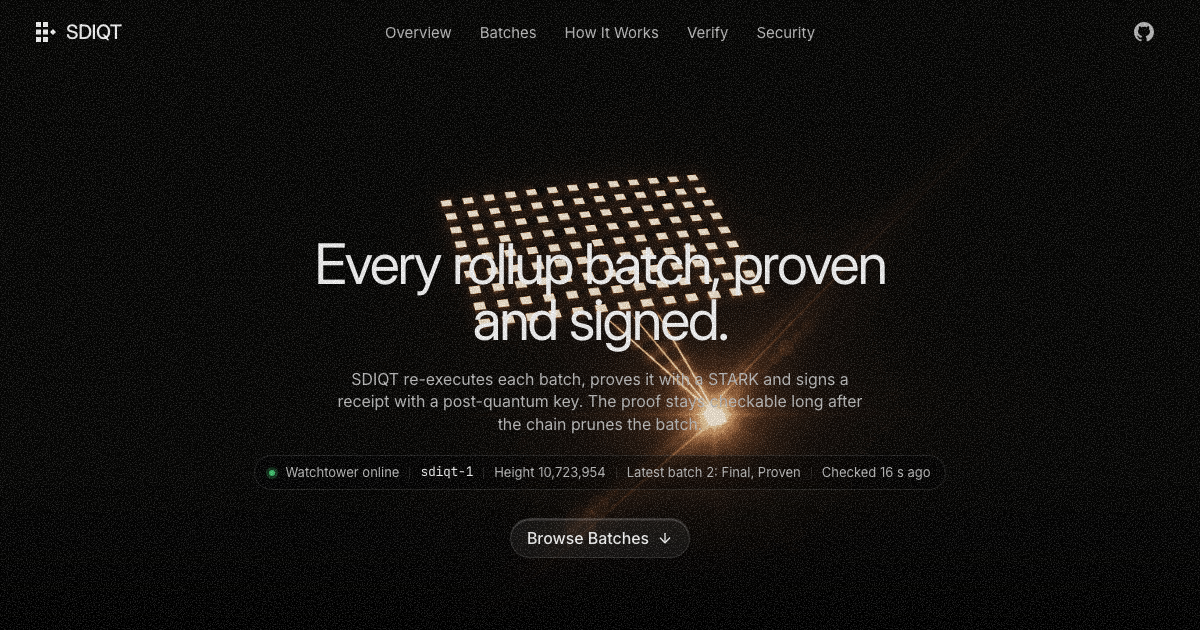
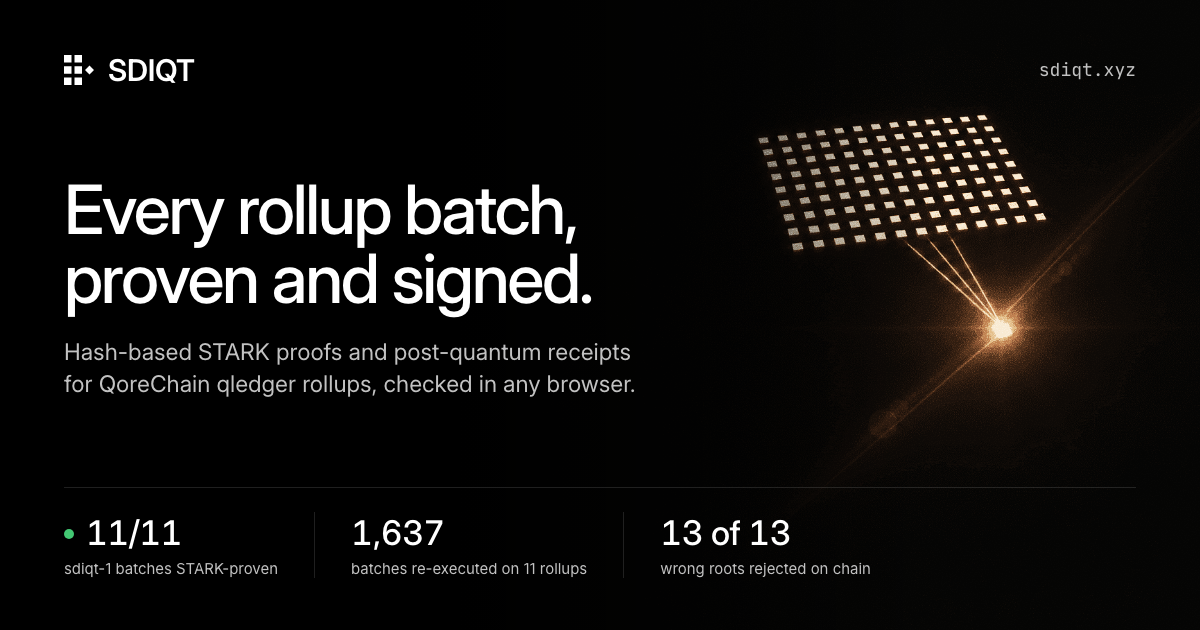
docs: show the sealed exit as live, add the cover and refresh README numbers (#62)
Two changes.

- `apps/explorer/scripts/cards.mjs` (`pnpm --dir apps/explorer cards`)
renders `public/og.png` (1200 x 630) and `docs/cover.png` (1920 x 1080)
from `docs/counts.json` and `/api/rollups`. It refuses to render when
the rejected count differs from the mismatch count. OG alt text updated.
- README: the ML-KEM exit packet ran on diana (tx C451E059 posted it in
batch 5, tx E9C47252 paid it after finality), so it leaves \"Not shown
yet\" and fills the Withdrawal and ML-KEM rows. Numbers follow PROOF.md
at 10779613 (11/11 proven, 10/10 claims) and /api/rollups at 26 Nov
09:05 UTC (11 rollups, 1,637 batches, 13 mismatches, all rejected). The
quick-start `--check` line and its output match the committed PROOF.md
(checked locally, changed 0). Batch 9 latency (663 min) is explained.

After merge: `deploy/deploy-explorer.sh` ships the new og.png.

diff --git a/apps/explorer/index.html b/apps/explorer/index.html
@@ -22,7 +22,7 @@
     <meta property="og:image" content="https://sdiqt.xyz/og.png" />
     <meta property="og:image:width" content="1200" />
     <meta property="og:image:height" content="630" />
-    <meta property="og:image:alt" content="SDIQT Explorer with live sdiqt-1 batches" />
+    <meta property="og:image:alt" content="SDIQT cover with the line Every rollup batch, proven and signed, and live batch counts from QoreChain diana" />
     <meta name="twitter:card" content="summary_large_image" />
     <meta name="twitter:title" content="SDIQT Explorer" />
     <meta

diff --git a/README.md b/README.md
@@ -1,10 +1,12 @@
 # SDIQT
 
-SDIQT gives every batch of a QoreChain qledger rollup a hash-based STARK proof that anyone can check in a browser. On the diana testnet, all 9 batches of the rollup `sdiqt-1` are proven and final, and a 2 QOR withdrawal was paid from a proven batch. The same watchtower re-executes every other qledger-v1 rollup on diana from its public inbox: 11 rollups and 1,635 batches checked, 13 mismatching submissions found, and QoreChain rejected all 13.
+![SDIQT: every rollup batch, proven and signed](docs/cover.png)
+
+SDIQT gives every batch of a QoreChain qledger rollup a hash-based STARK proof that anyone can check in a browser. On the diana testnet, all 11 batches of the rollup `sdiqt-1` are proven, two withdrawals were paid from proven batches, and one of them reached the chain through a sealed ML-KEM exit packet. The same watchtower re-executes every other qledger-v1 rollup on diana from its public inbox: 11 rollups and 1,637 batches checked, 13 mismatching submissions found, and QoreChain rejected all 13.
 
 **Live:** https://sdiqt.xyz · **Video:** _placeholder, the link is added at submission_ · **Evidence:** [PROOF.md](PROOF.md)
 
-The `sdiqt-1` evidence in this README comes from [PROOF.md](PROOF.md) and [`docs/counts.json`](docs/counts.json), a snapshot at diana height 10750787 (25 Nov 2026 21:36 UTC) that `scripts/proof.mjs` recomputes from chain. Coverage numbers come from [`/api/rollups`](https://sdiqt.xyz/api/rollups) as of 25 Nov 2026 21:29 UTC (diana height 10750487).
+The `sdiqt-1` evidence in this README comes from [PROOF.md](PROOF.md) and [`docs/counts.json`](docs/counts.json), a snapshot at diana height 10779613 (26 Nov 2026 09:01 UTC) that `scripts/proof.mjs` recomputes from chain. Coverage numbers come from [`/api/rollups`](https://sdiqt.xyz/api/rollups) as of 26 Nov 2026 09:05 UTC.
 
 ## The problem
 
@@ -52,11 +54,11 @@ A qledger-v1 rollup with based sequencing posts every entry to a public inbox on
 
 STARK proofs and challenges run on `sdiqt-1`; on the other rollups the watchtower re-executes and reports. The prover itself runs on any qledger-v1 batch: the `rdk-v328-e2e-mwd5v89d` batch in [Quick start](#quick-start) belongs to another team's rollup.
 
-As of 25 Nov 2026 21:29 UTC, from [`/api/rollups`](https://sdiqt.xyz/api/rollups):
+As of 26 Nov 2026 09:05 UTC, from [`/api/rollups`](https://sdiqt.xyz/api/rollups):
 
 | Rollup | Tier | Batches checked | Re-execution match | Mismatching submissions | Rejected by QoreChain |
 |---|---|---|---|---|---|
-| `sdiqt-1` | STARK | 9 | 9 | 0 | 0 |
+| `sdiqt-1` | STARK | 11 | 11 | 0 | 0 |
 | `augury-oracle` | Re-execution | 0 | 0 | 0 | 0 |
 | `ledgerpump` | Re-execution | 5 | 5 | 1 | 1 |
 | `rdk-v328-e2e-mwd5v89d` | Re-execution | 7 | 7 | 2 | 2 |
@@ -67,9 +69,9 @@ As of 25 Nov 2026 21:29 UTC, from [`/api/rollups`](https://sdiqt.xyz/api/rollups
 | `vigil-1` | Re-execution | 36 | 36 | 4 | 4 |
 | `vigil-pay-1` | Re-execution | 23 | 23 | 2 | 2 |
 | `wicketgate-pay` | Re-execution | 0 | 0 | 0 | 0 |
-| **Total, 11 rollups** | | **1,635** | **1,635 (100%)** | **13** | **13** |
+| **Total, 11 rollups** | | **1,637** | **1,637 (100%)** | **13** | **13** |
 
-"Batches checked" counts the current submission at each batch index. Each of the 13 mismatching submissions claimed roots that differ from a re-execution of its inbox range; QoreChain rejected each one through an upheld fraud proof, and a later submission at the same index took its place, so the 1,648 submissions on record are the 1,635 current batches plus those 13. On `sdiqt-1`, all 9 batches are proven by a STARK and final on QoreChain; the median time from batch submit to QSTR post is 2 min 17 s ([PROOF.md](PROOF.md)).
+"Batches checked" counts the current submission at each batch index. Each of the 13 mismatching submissions claimed roots that differ from a re-execution of its inbox range; QoreChain rejected each one through an upheld fraud proof, and a later submission at the same index took its place, so the 1,650 submissions on record are the 1,637 current batches plus those 13. On `sdiqt-1`, all 11 batches are proven by a STARK; the median time from batch submit to QSTR post is 2 min 17 s ([PROOF.md](PROOF.md)).
 
 The explorer lists every rollup at [sdiqt.xyz](https://sdiqt.xyz/#rollups), with one page per rollup at `https://sdiqt.xyz/r/<rollup>`. The API serves each rollup at `/api/r/<rollup>/{health,batches,batches/<i>,receipts/<i>}`; `sdiqt-1` keeps its routes at `/api`.
 
@@ -124,24 +126,25 @@ Every setup transaction, with height and the check that ran on it, is in [PROOF.
 
 ## Evidence
 
-At height 10750787 ([PROOF.md](PROOF.md)):
+At height 10779613 ([PROOF.md](PROOF.md)):
 
 | Count | Value |
 |---|---|
-| Batches submitted / proven / final | 9 / 9 / 9 |
+| Batches submitted / proven / final | 11 / 11 / 10 |
 | Batches rejected by a challenge | 0 |
-| User entries (deposits / transfers / withdrawals) | 10 (2 / 6 / 2) |
-| QSTR commitments posted | 9 |
-| Setup and withdrawal claims checked against chain | 8 of 8 |
+| User entries (deposits / transfers / withdrawals) | 12 (2 / 8 / 2) |
+| QSTR commitments posted | 11 |
+| Setup, withdrawal and exit claims checked against chain | 10 of 10 |
 | Median time from batch submit to QSTR post | 2 min 17 s |
-| Longest time from batch submit to QSTR post | 18 min 49 s |
+| Longest time from batch submit to QSTR post | 663 min 21 s |
 
-Batches 0 to 2 waited in the prove queue for a fix; batches 3 to 8 went from submit to QSTR in 2 min 6 s to 3 min 45 s. The withdrawal: the demo user posted a signed 2 QOR withdrawal in batch 3 (tx `18EE89B6…`), and after batch 3 was final `MsgExecuteWithdrawal` paid it (tx `D4E2A450…`, height 10728212).
+Batches 3 to 8 and 10 went from submit to QSTR in 2 min 6 s to 3 min 45 s. Batches 0 to 2 waited in the prove queue for a fix. Batch 9 was submitted while the prover machine was shutting down; the saved job resumed on restart and proved it 663 min later, by which time the batch was already final.
+
+Two withdrawals were paid. The demo user posted a signed 2 QOR withdrawal in batch 3 (tx `18EE89B6…`), and after batch 3 was final `MsgExecuteWithdrawal` paid it (tx `D4E2A450…`, height 10728212). For the second, the demo user sealed a signed 2.5 QOR withdrawal to the watchtower's ML-KEM-1024 key with release height 10738199. The watchtower opened it at that height and posted it in batch 5 (tx `C451E059…`), and after batch 5 was final `MsgExecuteWithdrawal` paid it (tx `E9C47252…`, height 10779352).
 
 Built and tested, with the on-chain run still to come (listed under "Not shown yet" in PROOF.md):
 
-- **Watchtower challenge:** a staged wrong-root batch challenged by the watchtower, the bond slashed, the receipt VOID.
-- **ML-KEM exit packet:** an offline user's sealed withdrawal opened by the watchtower at its release height and posted to the inbox. The exit desk runs on the live watchtower.
+- **Watchtower challenge:** a staged wrong-root batch challenged by the watchtower, the bond slashed, the receipt VOID. The challenge bond on `sdiqt-1` is 1,000 QOR.
 
 Attack cases and their refusals are in [`redteam/`](redteam/). Formats are specified in [`specs/`](specs/).
 
@@ -180,11 +183,11 @@ Recompute PROOF.md from chain (from the repo root; `--check` fails if any number
 ```bash
 pnpm install --frozen-lockfile
 node apps/archiver/src/cli.ts --rollup sdiqt-1 --from-height 10720040
-node scripts/proof.mjs --bundles https://sdiqt.xyz/bundles --at-height 10750787 --check
+node scripts/proof.mjs --bundles https://sdiqt.xyz/bundles --at-height 10779613 --check
 ```
 
 ```text
-{"snapshot_height":"10750787","batches":9,"proven":9,"final":9,"claims_ok":"8/8","changed":0}
+{"snapshot_height":"10779613","batches":11,"proven":11,"final":10,"claims_ok":"10/10","changed":0}
 ```
 
 Tests: `pnpm test` for TypeScript and `cargo test` for Rust.
@@ -215,10 +218,10 @@ Tests: `pnpm test` for TypeScript and `cargo test` for Rust.
 | Requirement | Where to see it |
 |---|---|
 | ML-DSA-signed batches | Operator ML-DSA-87 key registered (tx `4FAC7406…`), every batch hybrid signed; user entries ML-DSA-44, checked inside each STARK. [PROOF.md](PROOF.md) |
-| Withdrawal | 2 QOR withdrawal posted in batch 3 and paid by `MsgExecuteWithdrawal` (tx `D4E2A450…`). [PROOF.md](PROOF.md#setup-on-chain) |
+| Withdrawal | 2 QOR from batch 3 paid by `MsgExecuteWithdrawal` (tx `D4E2A450…`); 2.5 QOR from a sealed exit in batch 5 paid (tx `E9C47252…`). [PROOF.md](PROOF.md#setup-on-chain) |
 | Settlement receipt | Watchtower ML-DSA-87 key registered (tx `BDA2DF6F…`); receipts at `https://sdiqt.xyz/api/receipts/<batch>`, shown on each batch in the explorer |
-| Watchtower | Re-executes and verifies every batch; re-executes the other 10 qledger-v1 rollups on diana too, 1,635 batches across all 11 as of 25 Nov 2026 ([coverage](#every-qledger-rollup-on-diana)); challenge path in [`apps/watchtower/src/challenge.ts`](apps/watchtower/src/challenge.ts); on-chain challenge listed under "Not shown yet" |
-| ML-KEM data protection | Watchtower ML-KEM-1024 key registered (tx `6FB680F1…`); exit packets sealed with QoreSeal ([spec](specs/exit-packet-v1.md)); on-chain exit listed under "Not shown yet" |
+| Watchtower | Re-executes and verifies every batch; re-executes the other 10 qledger-v1 rollups on diana too, 1,637 batches across all 11 as of 26 Nov 2026 ([coverage](#every-qledger-rollup-on-diana)); challenge path in [`apps/watchtower/src/challenge.ts`](apps/watchtower/src/challenge.ts); on-chain challenge listed under "Not shown yet" |
+| ML-KEM data protection | Watchtower ML-KEM-1024 key registered (tx `6FB680F1…`); a sealed exit packet opened at its release height and posted (tx `C451E059…`), then paid (tx `E9C47252…`); [spec](specs/exit-packet-v1.md) |
 | Threat model | [THREAT_MODEL.md](THREAT_MODEL.md), [LIMITS.md](LIMITS.md) |
 
 ## Credits
